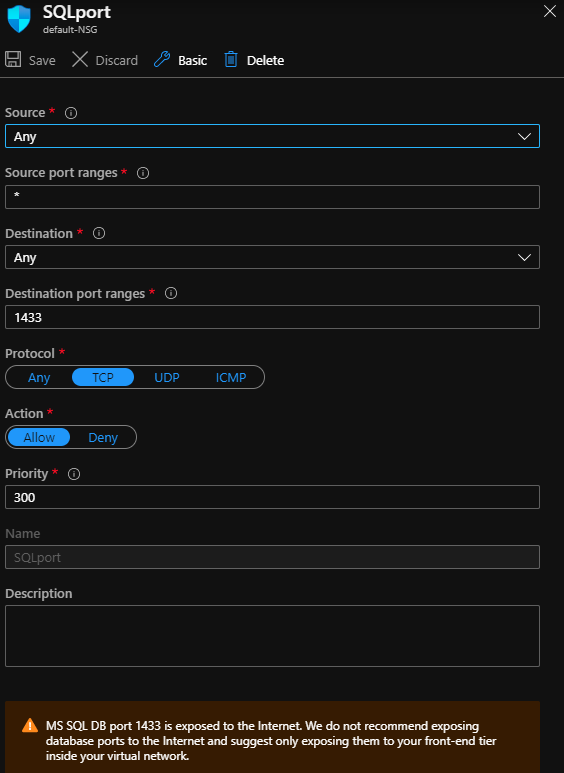
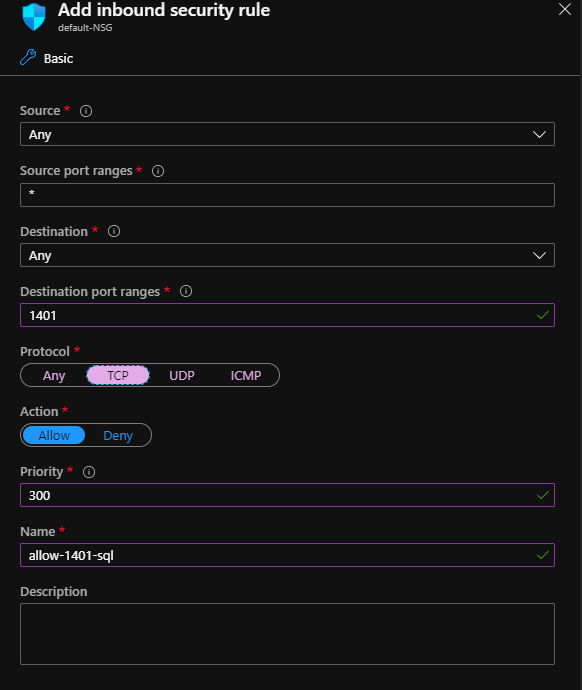
persist

diff --git a/dockerSQL/README.md b/dockerSQL/README.md
@@ -4,7 +4,7 @@ Based on [Quickstart: Run SQL Server container images with Docker](https://docs.
 
 If you want to use PowerShell or Cmd instead the commands can be found in the Quickstart.
 
-After you have completed the Spoke deployment of an Ubuntu VM with Docker and Azure Data Lake Storage you can setup SQL Server 2019 on Docker on the deployed Ubuntu VM.
+After you have completed the ARM deployment of an Ubuntu VM with Docker and Azure Data Lake Storage you can setup SQL Server 2019 on Docker on the deployed Ubuntu VM.
 
 ## Installing SQL Server 2019 on Docker
 
@@ -18,22 +18,170 @@ After you have completed the Spoke deployment of an Ubuntu VM with Docker and Az
    sudo docker pull mcr.microsoft.com/mssql/server:2019-latest
    ```
 
-3. Run the container image
+3. View available disk and partion, format, and mount the data disk
 
     ```
-    sudo docker run -e "ACCEPT_EULA=Y" -e "SA_PASSWORD=<YourStrong@Passw0rd>" \
-        -p 1433:1433 --name sql1 \
-        -d mcr.microsoft.com/mssql/server:2019-latest
+    sudo lsblk -o NAME,FSTYPE,SIZE,MOUNTPOINT,LABEL
+    ```
+    The output should look something like this:
+
+    ```
+    NAME    FSTYPE  SIZE MOUNTPOINT LABEL
+    sdb              32G
+    └─sdb1  ext4     32G /mnt
+    sr0             628K
+    sdc             128G
+    sda              30G
+    ├─sda14           4M
+    ├─sda15 vfat    106M /boot/efi  UEFI
+    └─sda1  ext4   29.9G /          cloudimg-rootfs
     ```
 
+    **Partion**
 
-4. View Docker Container
+    ```
+    sudo parted /dev/sdc
+    ```
+
+    **Output**
+
+    ```
+    GNU Parted 3.2
+    Using /dev/sdc
+    Welcome to GNU Parted! Type 'help' to view a list of commands.
+    (parted)
+    ```
+
+    Within the parted, type the following to have gpt partition, gpt can allow partition larger than 2GB:
+
+    ```
+    mklabel gpt
+    ```
+
+    Set the size for partition, I here partition from 0GB to 4GB:
+
+    ```
+    mkpart primary 0GB 128GB
+    ```
+
+    Then quit the parted:
+
+    ```
+    quit
+    ```
+
+    **Format**
+
+    Format the newly partitioned hard disk:
+
+    ```
+    sudo mkfs.ext4 /dev/sdc
+    ```
+
+    Enter `y`
+
+    **Output**
+
+    ```
+    mke2fs 1.42.13 (17-May-2015)
+    Found a gpt partition table in /dev/sdc
+    Proceed anyway? (y,n) y
+    Discarding device blocks: done
+    Creating filesystem with 33554432 4k blocks and 8388608 inodes
+    Filesystem UUID: 6c869d93-ecc9-4c00-ad48-b8396e91a79b
+    Superblock backups stored on blocks:
+        32768, 98304, 163840, 229376, 294912, 819200, 884736, 1605632, 2654208,
+        4096000, 7962624, 11239424, 20480000, 23887872
+    
+    Allocating group tables: done
+    Writing inode tables: done
+    Creating journal (32768 blocks): done
+    Writing superblocks and filesystem accounting information: done
+    ```
+
+    ***Mount** (including auto mount after reboot)
+
+    Usually drive is mounted in /mnt/. Create a new directory in /mnt/ first
+
+
+    ```
+    sudo mkdir /mnt/sdc
+    ```
+
+    Then we can mount it by:
+
+    ```
+    sudo mount /dev/sdc /mnt/sdc
+    ```
+
+    View available disk again
+
+    ```
+    sudo lsblk -o NAME,FSTYPE,SIZE,MOUNTPOINT,LABEL
+    ```
+
+    ```
+    NAME    FSTYPE  SIZE MOUNTPOINT LABEL
+    sdb              32G
+    └─sdb1  ext4     32G /mnt
+    sr0             628K
+    sdc     ext4    128G /mnt/sdc
+    sda              30G
+    ├─sda14           4M
+    ├─sda15 vfat    106M /boot/efi  UEFI
+    └─sda1  ext4   29.9G /          cloudimg-rootfs
+    ```
+
+    But we need to mount it for every time we reboot. To mount it automatically after each reboot, I use nano to modify the file /etc/fstab:
+
+    ```
+    sudo nano /etc/fstab
+    ```
+
+    Enter following at the end of file:
+
+    ```
+    /dev/sdc     /mnt/sdc      ext4        defaults      0       0
+    ```
+
+    Press `Ctrl and x`, Then press `Y`, Then press `Enter` when you see `File Name to Write: /etc/fstab`
+
+
+    ![addfstab](https://raw.githubusercontent.com/DataSnowman/spoke/master/images/addfstab.png)
+
+    The first item is the path for the hard drive. The second one is the destination for the mounted drive, where we want to mount. The third one is the format type. The forth to sixth one I just kept as defaults, 0 and 0.
+
+    At the bottom of the window, there is a list of the most basic command shortcuts to use with the nano editor.
+
+    All commands are prefixed with either ^ or M character. The caret symbol (^) represents the Ctrl key. For example, the ^J commands mean to press the Ctrl and J keys at the same time.
+
+
+4. Create `database` directory for the persistant SQL Server files
+
+    Make a `database` directory in /mnt/sdc of data disk
+
+    ```
+    sudo mkdir /mnt/sdc/database
+    ```
+
+5. Run the container image
+
+    ```
+    sudo docker run -e 'ACCEPT_EULA=Y' -e 'MSSQL_SA_PASSWORD=<YourStrong@Passw0rd>' \
+   -u 0:0 -p 1401:1433 --name sql1 \
+   -v /mnt/sdc/database/data:/var/opt/mssql/data \
+   -v /mnt/sdc/database/log:/var/opt/mssql/log \
+   -v /mnt/sdc/database/secrets:/var/opt/mssql/secrets \
+   -d mcr.microsoft.com/mssql/server:2019-latest
+    ```
+
+6. View Docker Container
 
     ```
     sudo docker ps -a
     ```
 
-5. Change SA Password 
+7. Change SA Password 
 
     `Note: Remember to do this part - I spent an entire Sunday troubleshooting why I could not connect in SSMS, Azure Data Studio, and VScode.  After changing the SA password all was well.`
 
@@ -44,7 +192,7 @@ After you have completed the Spoke deployment of an Ubuntu VM with Docker and Az
     ```
 ## Connecting to SQL Server 2019 on Docker
 
-6. Connect to SQL Server
+8. Connect to SQL Server
 
     ```
     sudo docker exec -it sql1 "bash"
@@ -64,7 +212,7 @@ After you have completed the Spoke deployment of an Ubuntu VM with Docker and Az
     /opt/mssql-tools/bin/sqlcmd -S localhost -U 'SA' -P '<YourNewStrong@Passw0rd>'
     ```
 
-7. Create a new database
+9. Create a new database
 
     `CREATE DATABASE TestDB`
 
@@ -72,7 +220,7 @@ After you have completed the Spoke deployment of an Ubuntu VM with Docker and Az
 
     `GO`
 
-8. Insert Data
+10. Insert Data
 
     `USE TestDB`
 
@@ -82,44 +230,49 @@ After you have completed the Spoke deployment of an Ubuntu VM with Docker and Az
 
     `GO`
 
-9. Select Data
+11. Select Data
 
     `SELECT * FROM Inventory WHERE quantity > 152;`
 
     `GO`
 
-10. Exit sqlcmd
+12. Exit sqlcmd
 
     1> `QUIT`
 
     mssql@9625004ea8ab:/$ `exit`
 
-11. Add Inbound security rule to Network security group
+13. Add Inbound security rule to Network security group
 
     Source: `Any`
-    Source port ranges: `*`
-    Destination: `Any`
-    Destination port ranges: `1433` 
 
-    (or other if publishing different port like 1401 below for the -p 1401:1433 -p [port number on docker host]:[port number on container])
+    Source port ranges: `*`
+
+    Destination: `Any`
+
+    Destination port ranges: `1401` 
+
+    (or other if publishing different port like 1402 below for the -p 1402:1433 -p [port number on docker host]:[port number on container])
 
     sudo docker run -e "ACCEPT_EULA=Y" -e "SA_PASSWORD=<YourStrong@Passw0rd>" \
-        -p `1401:1433` --name sql1 \
+        -p `1402:1433` --name sql2 \
         -d mcr.microsoft.com/mssql/server:2019-latest
 
     Protocal: `TCP`
+
     Action: `Allow`
+
     Priority: `300` 
 
     (or 301 if you have multiple instances on the same container)
 
-    Name: `allow-1433-sql`
+    Name: `allow-1401-sql`
 
     ![addInbound](https://raw.githubusercontent.com/DataSnowman/spoke/master/images/addInboundSecurityRule.png)
 
-12. Connect for SSMS or Azure Data Studio or VScode
+14. Connect for SSMS or Azure Data Studio or VScode
 
-    `<IPaddress>,1433`
+    `<IPaddress>,1401`
 
     Connect using SQL Server Management Studio (SSMS)
 
@@ -133,14 +286,14 @@ After you have completed the Spoke deployment of an Ubuntu VM with Docker and Az
     Connect using Visual Studio Code see [Use Visual Studio Code to create and run Transact-SQL scripts](https://docs.microsoft.com/en-us/sql/visual-studio-code/sql-server-develop-use-vscode?view=sql-server-ver15)
 
 
-13. If shutting down the VM stop the SQL container
+15. If shutting down the VM stop the SQL container
 
     ```
     sudo docker stop sql1
     ```
 
 
-14. If restarting the VM start the SQL container
+16. If restarting the VM start the SQL container
 
     Remember to login with the new IPaddress
 
@@ -154,6 +307,6 @@ After you have completed the Spoke deployment of an Ubuntu VM with Docker and Az
     sudo docker ps -a
     ```
 
-15. Change Connection for SSMS or Azure Data Studio or VScode to use the New IPaddress
+17. Change Connection for SSMS or Azure Data Studio or VScode to use the New IPaddress
 
-    `<NewIPaddress>,1433`
+    `<NewIPaddress>,1401`
